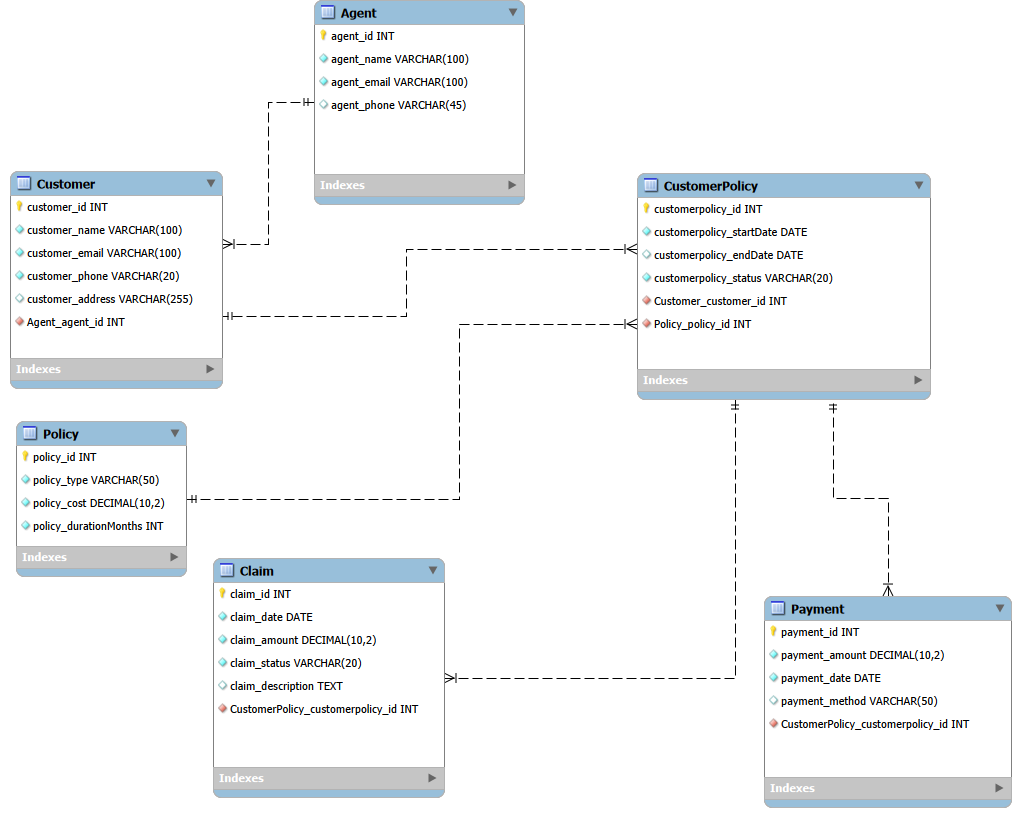
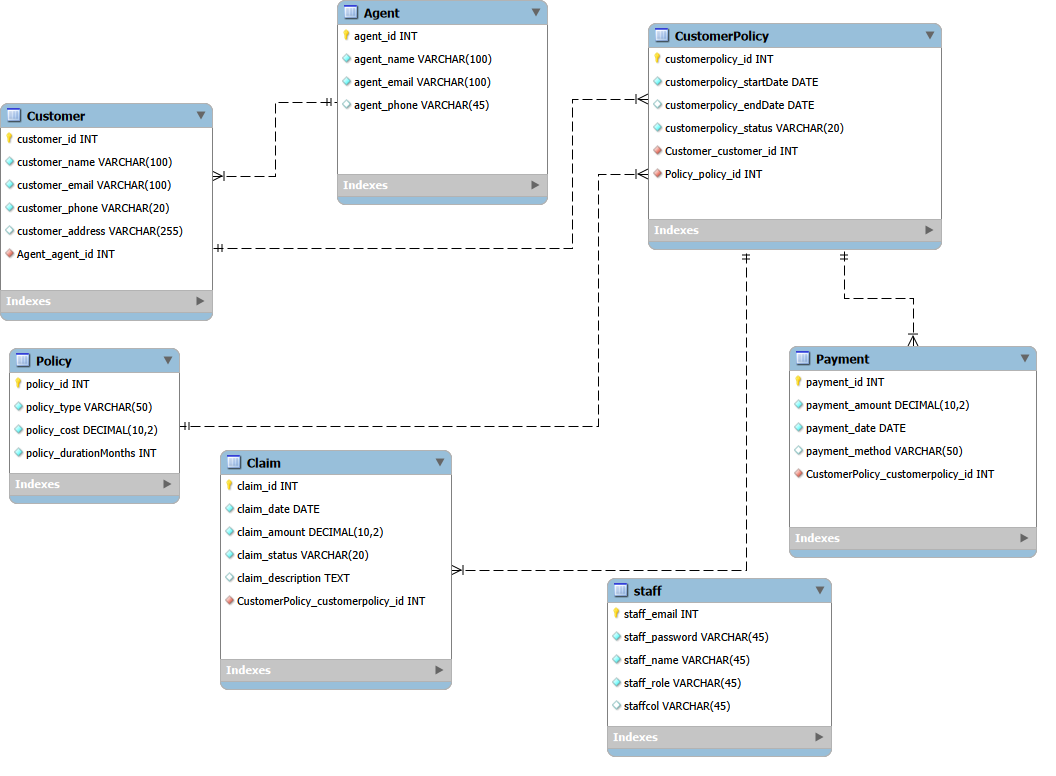
final touches for the app

diff --git a/WEBAPP/index.php b/WEBAPP/index.php
@@ -12,12 +12,11 @@ if ($_SERVER['REQUEST_METHOD'] === 'POST') {
     if ($email === '' || $password === '') {
         $message = "All fields are required.";
     } else {
-        // STAFF login only
         $stmt = mysqli_prepare(
             $conn,
-            "SELECT staff_email, staff_password, staff_name
-             FROM Staff 
-             WHERE staff_email = ?"
+            "SELECT staff_email, staff_password, staff_name, staff_role
+                    FROM staff
+                    WHERE staff_email = ?"
         );
 
         mysqli_stmt_bind_param($stmt, "s", $email);
@@ -25,12 +24,14 @@ if ($_SERVER['REQUEST_METHOD'] === 'POST') {
         mysqli_stmt_store_result($stmt);
 
         if (mysqli_stmt_num_rows($stmt) === 1) {
-            mysqli_stmt_bind_result($stmt, $dbEmail,$dbPasswordHash, $dbName);
+            mysqli_stmt_bind_result($stmt, $dbEmail,$dbPasswordHash, $dbName, $dbRole);
             mysqli_stmt_fetch($stmt);
 
             if (password_verify($password, $dbPasswordHash)) {
                 $_SESSION['staff_email'] = $dbEmail;
-                $_SESSION['staff_name'] = $dbName;
+                $_SESSION['staff_name']  = $dbName;
+                $_SESSION['staff_role']  = $dbRole;
+
                 header("Location: customers.php");
                 exit;
             } else {
@@ -54,8 +55,6 @@ if ($_SERVER['REQUEST_METHOD'] === 'POST') {
         <label>Password</label><br>
         <input type="password" required name="indexPassword">
         <button type="submit">Login</button>
-        <p>Don't have an account? <a href="register.php">Register</a></p>
-
         <?php if ($message): ?>
             <p><?php echo htmlspecialchars($message); ?></p>
         <?php endif; ?>

diff --git a/WEBAPP/register.php b/WEBAPP/register.php
@@ -12,21 +12,18 @@ $message = '';
 if ($_SERVER['REQUEST_METHOD'] === 'POST') {
     $name     = trim($_POST['customer_name'] ?? '');
     $email    = trim($_POST['customer_email'] ?? '');
-    $password = trim($_POST['customer_password'] ?? '');
     $phone    = trim($_POST['customer_phone'] ?? '');
     $address  = trim($_POST['customer_address'] ?? '');
     $agentId  = intval($_POST['agent_id'] ?? 0);
 
-    if ($name === '' || $email === '' || $agentId === 0 || $password === '') {
-        $message = "Name, email, password, and agent are required.";
+    if ($name === '' || $email === '' || $agentId === 0) {
+        $message = "Name, email and agent are required.";
     } else {
-        $passwordHash = password_hash($password, PASSWORD_DEFAULT); // hash password
-
         $stmt = mysqli_prepare(
             $conn,
             "INSERT INTO Customer
-            (customer_name, customer_email, customer_password, customer_phone, customer_address, Agent_agent_id)
-            VALUES (?, ?, ?, ?, ?, ?)"
+            (customer_name, customer_email, customer_phone, customer_address, Agent_agent_id)
+            VALUES (?, ?, ?, ?, ?)"
         );
 
         mysqli_stmt_bind_param(
@@ -34,7 +31,6 @@ if ($_SERVER['REQUEST_METHOD'] === 'POST') {
             "sssssi",
             $name,
             $email,
-            $passwordHash,
             $phone,
             $address,
             $agentId
@@ -146,9 +142,6 @@ body {
 
         <label>Email *</label>
         <input type="email" name="customer_email" required>
-
-        <label>Password *</label>
-        <input type="password" name="customer_password" required>
 
         <label>Phone</label>
         <input type="text" name="customer_phone">

diff --git a/WEBAPP/includes/header.php b/WEBAPP/includes/header.php
@@ -55,7 +55,9 @@
 <header>
     <ul>
         <li><img src="../assets/images/logo.png" width="60" height="60" alt="Logo"></li>
-        <li><a href="../dashboard.php">Dashboard</a></li>
+        <?php if ($_SESSION['staff_role'] === 'Admin'): ?>
+            <li><a href="../dashboard.php">Dashboard</a></li>
+        <?php endif; ?>
         <li><a href="../customers.php">Customers</a></li>
         <li><a href="../policies.php">Policies</a></li>
         <li><a href="../register.php">Register</a></li>

diff --git a/WEBAPP/tools.php b/WEBAPP/tools.php
@@ -100,7 +100,7 @@ th { background:#90AB8B; color:#fff; }
 
 <div class="container">
 <h1>Staff Tools</h1>
-<p>Welcome, <?php echo $_SESSION['staff_name']; ?></p>
+<p>Welcome, <?php echo $_SESSION['staff_role']; ?></p>
 
 <?php if($message): ?>
     <p class="message"><?= htmlspecialchars($message) ?></p>
@@ -160,7 +160,6 @@ th { background:#90AB8B; color:#fff; }
 </tr>
 <?php endforeach; ?>
 </table>
-
 </div>
 
 <?php include("./includes/footer.php"); ?>

diff --git a/WEBAPP/dashboard.php b/WEBAPP/dashboard.php
@@ -3,10 +3,11 @@ session_start();
 require_once "./config/database.php";
 include("./includes/header.php");
 
-if (!isset($_SESSION['staff_email'])) {
-    header("Location: index.php");
+if (!isset($_SESSION['staff_email']) || $_SESSION['staff_role'] !== 'Admin') {
+    header("Location: customers.php");
     exit;
 }
+
 
 // -----------------------
 // Fetch total counts

diff --git a/WEBAPP/customers.php b/WEBAPP/customers.php
@@ -26,8 +26,8 @@ if ($search !== '') {
             c.customer_phone,
             c.customer_address,
             a.agent_name
-        FROM Customer c
-        JOIN Agent a ON c.Agent_agent_id = a.agent_id
+        FROM customer c
+        JOIN agent a ON c.Agent_agent_id = a.agent_id
         ORDER BY c.customer_name
     ";
     $result = mysqli_query($conn, $query);

diff --git a/WEBAPP/config/database.php b/WEBAPP/config/database.php
@@ -7,5 +7,7 @@
     $conn = mysqli_connect($db_host, $db_user, $db_pass, $db_name);
     if (!$conn) {
         echo die("Connection failed: " . mysqli_connect_error());
+    } else {
+        echo "Connected Successfully!";
     }
 ?>
